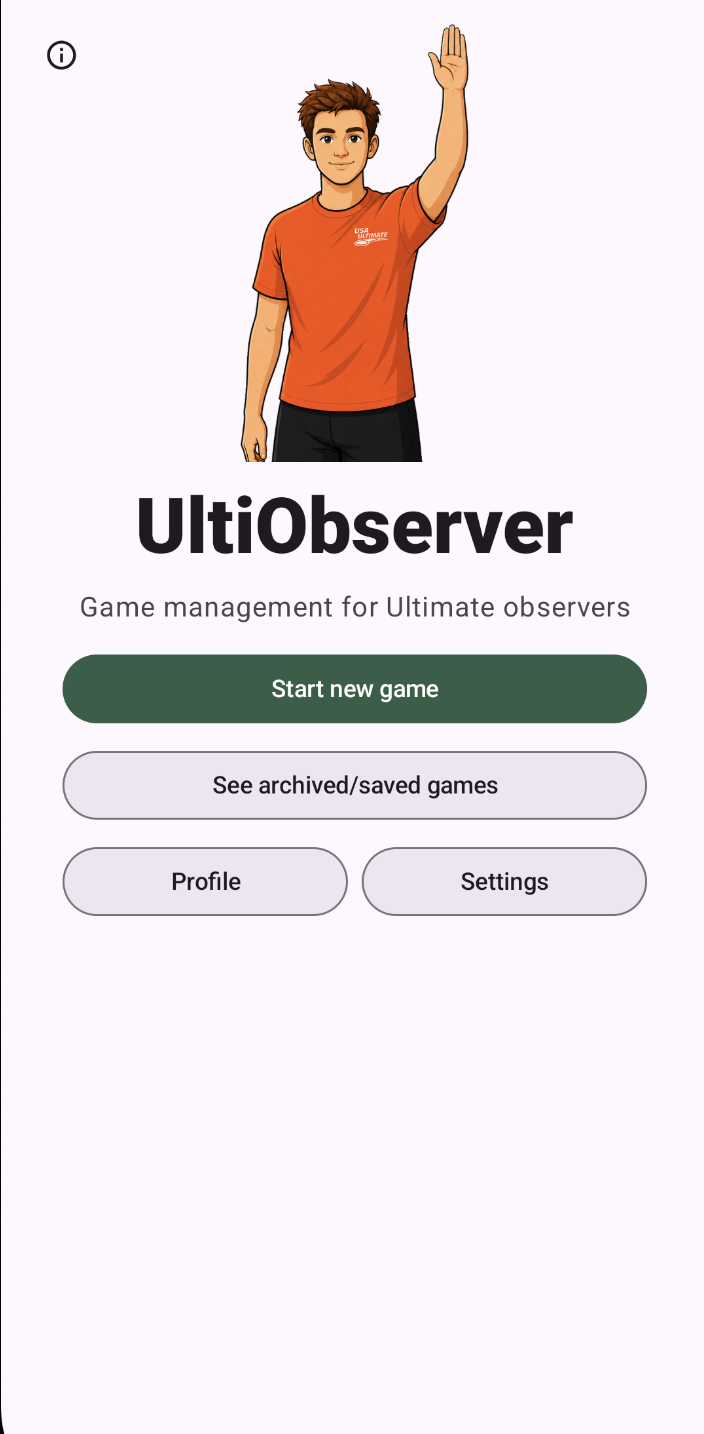
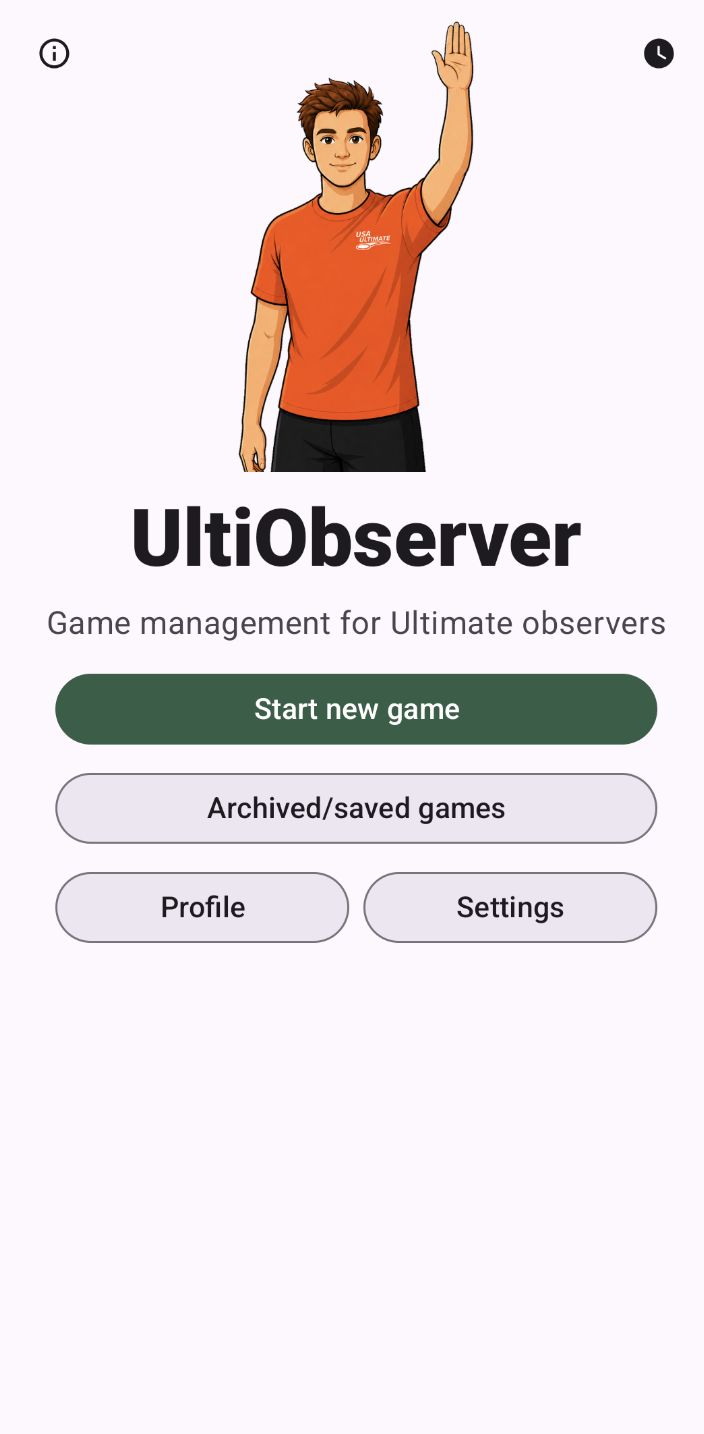
Change archive button to just Archive/saved games

diff --git a/app/src/androidTest/java/rmjarvis/ultiobserver/TestGameSummaryUi.kt b/app/src/androidTest/java/rmjarvis/ultiobserver/TestGameSummaryUi.kt
@@ -78,8 +78,8 @@ class TestGameSummaryUi : MainActivityUiTestFixtures() {
 
         // The archived summary uses the same editor and persists the updated archive row.
         composeRule.onNodeWithText("Archive game").performClick()
-        waitForText("See archived/saved games")
-        composeRule.onNodeWithText("See archived/saved games").performClick()
+        waitForText("Archived/saved games")
+        composeRule.onNodeWithText("Archived/saved games").performClick()
         waitForText("Archived/saved games")
         composeRule.onNodeWithText("Archived games", substring = true).performClick()
         waitForText("Archived games")
@@ -322,8 +322,8 @@ class TestGameSummaryUi : MainActivityUiTestFixtures() {
         // The completed-game summary can archive directly, and the archived summary shares
         // the same payload.
         composeRule.onNodeWithText("Archive game").performClick()
-        waitForText("See archived/saved games")
-        composeRule.onNodeWithText("See archived/saved games").performClick()
+        waitForText("Archived/saved games")
+        composeRule.onNodeWithText("Archived/saved games").performClick()
         waitForText("Archived/saved games")
         composeRule.onNodeWithText("Archived games", substring = true).performClick()
         waitForText("Archived games")
@@ -346,8 +346,8 @@ class TestGameSummaryUi : MainActivityUiTestFixtures() {
 
         // Archive the game from Home and verify it returns to the archive list.
         composeRule.onNodeWithText("Archive completed game").performClick()
-        waitForText("See archived/saved games")
-        composeRule.onNodeWithText("See archived/saved games").performClick()
+        waitForText("Archived/saved games")
+        composeRule.onNodeWithText("Archived/saved games").performClick()
         waitForText("Archived/saved games")
         composeRule.onNodeWithText("Archived games", substring = true).performClick()
         waitForText("Archived games")

diff --git a/app/src/androidTest/java/rmjarvis/ultiobserver/TestHomeAndNavigationUi.kt b/app/src/androidTest/java/rmjarvis/ultiobserver/TestHomeAndNavigationUi.kt
@@ -58,7 +58,7 @@ class TestHomeAndNavigationUi : MainActivityUiTestFixtures() {
         composeRule.onNodeWithText("Start new game").assertIsDisplayed()
         composeRule.onNodeWithText("Profile").assertIsDisplayed()
         composeRule.onNodeWithText("Settings").assertIsDisplayed()
-        composeRule.onNodeWithText("See archived/saved games").assertIsDisplayed()
+        composeRule.onNodeWithText("Archived/saved games").assertIsDisplayed()
         composeRule.onNodeWithTag("home-about").assertIsDisplayed()
         composeRule.onNodeWithTag("home-official-clock").assertIsDisplayed()
 
@@ -1490,7 +1490,7 @@ class TestHomeAndNavigationUi : MainActivityUiTestFixtures() {
 
     /// Open Archived games from Home and wait until the page is visible.
     private fun openArchivedGamesScreen() {
-        composeRule.onNodeWithText("See archived/saved games").performClick()
+        composeRule.onNodeWithText("Archived/saved games").performClick()
         waitForText("Archived/saved games")
     }
 

diff --git a/app/src/main/java/rmjarvis/ultiobserver/HomeScreen_UI.kt b/app/src/main/java/rmjarvis/ultiobserver/HomeScreen_UI.kt
@@ -365,7 +365,7 @@ private fun HomeActions(
             onClick = onStartNewGame,
         )
         NavigationButton(
-            label = "See archived/saved games",
+            label = "Archived/saved games",
             fullWidth = true,
             colors = neutralOutlinedButtonColors(DarkNeutralColor),
             borderColor = MaterialTheme.colorScheme.outline,

diff --git a/docs/setup-game.rst b/docs/setup-game.rst
@@ -19,7 +19,7 @@ time, field number, who your co-observer(s) will be, the team names, tournament 
 division, level, and any rules that are specific to this tournament. Then click
 **Save as a draft**.
 
-When it is time for the game, go to **See archived/saved games** and access the
+When it is time for the game, go to **Archived/saved games** and access the
 :ref:`Saved setup drafts` section. All your saved drafts will be listed here. If you entered
 a field number, that will be shown in the listing for convenient reference so you know where
 to go. Click the game to bring it up for further editing. If you are ready to make this the

diff --git a/docs/archive.rst b/docs/archive.rst
@@ -11,7 +11,7 @@ UltiObserver keeps track of past games so you can reference them later, includin
 summary information after the fact. (See :ref:`Share`.)
 It also saves setup drafts and in-progress games that might have accidentally been
 bumped from the current game spot. All of these games are available from the
-home button **See archived/saved games**. That takes you to a page with three menu options.
+home button **Archived/saved games**. That takes you to a page with three menu options.
 
 Archived games
 --------------
